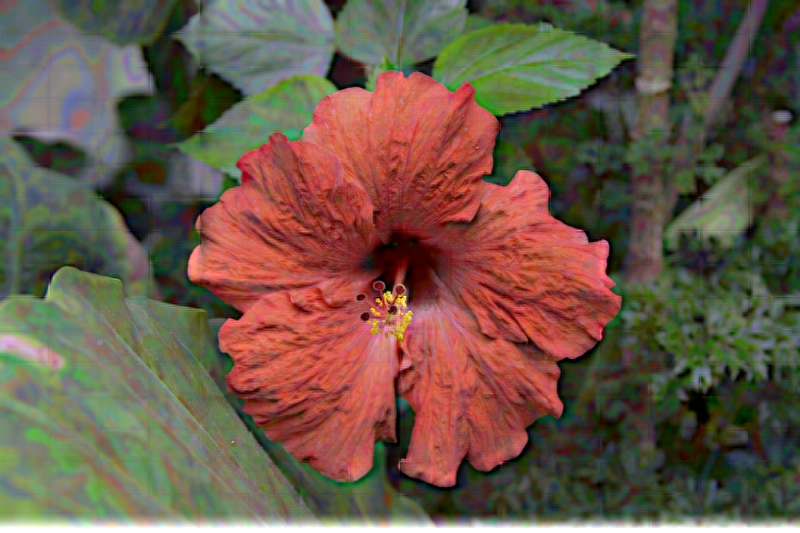
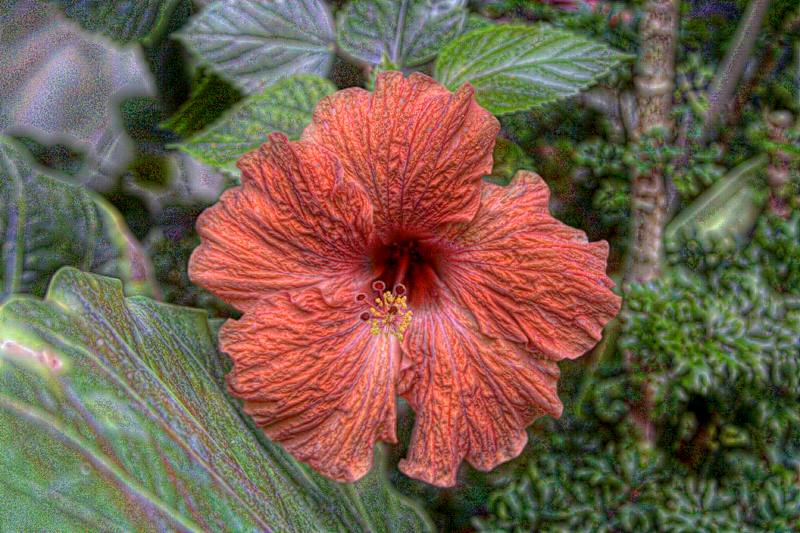
Implemented Local laplacian filtering(now correct)

diff --git a/src/retouch/LaplacianFiltering/LocalLaplacianFilter.cpp b/src/retouch/LaplacianFiltering/LocalLaplacianFilter.cpp
@@ -1,3 +1,4 @@
+#include <iostream>
 #include "LocalLaplacianFilter.h"
 #include "../Pyramid/LaplacianPyramid.h"
 #include "RemapFunction.h"
@@ -8,77 +9,50 @@ namespace retouch
     Image LocalLaplacianFilter::apply(const Image &image, const double &alpha,
                                                           const double &beta, const double &sigma) const
     {
-        GaussianPyramid gaussian_pyramid(image);
-        const size_t KGaussian_pyramid_size = gaussian_pyramid.getLayers().size();
-        const size_t KGaussian_laplacian_difference = 3;
-        const size_t KLaplacian_pyramid_size = KGaussian_pyramid_size - KGaussian_laplacian_difference;
-
+        const size_t KPypamid_size = 5;
+        GaussianPyramid gaussian_pyramid(image, KPypamid_size);
         LaplacianPyramid output_pyramid(image.getWidth(), image.getHeight(),
-                image.getChannelsCount(), KLaplacian_pyramid_size);
-
-        output_pyramid.setLayer(KLaplacian_pyramid_size - 1, gaussian_pyramid[KLaplacian_pyramid_size - 1]);
+                image.getChannelsCount(), KPypamid_size);
+        output_pyramid.setLayer(KPypamid_size - 1, gaussian_pyramid[KPypamid_size - 1]);
 
         RemapFunction remap_function(alpha, beta, sigma);
 
-        const size_t KSubimage_min_width = gaussian_pyramid[KLaplacian_pyramid_size - 2].getWidth() / 2;
-        const size_t KSubimage_min_height = gaussian_pyramid[KLaplacian_pyramid_size - 2].getHeight() / 2;
-
-        for(int layer_number = 0; layer_number < KLaplacian_pyramid_size - 1; layer_number++)
+        for(int layer_number = 0; layer_number < KPypamid_size - 1; layer_number++)
         {
-            const size_t KSubimages_on_axis = std::pow(2, layer_number + 1);
-            const size_t KOutput_layer_number = KLaplacian_pyramid_size - layer_number - 2;
-            Image gaussian_current_layer = gaussian_pyramid.expandToLayer(KOutput_layer_number, 0);
-            if(layer_number == 0)
-            {
-                Image cur = remap_function.remap(gaussian_pyramid[0], gaussian_current_layer);
-                ImageSaver saver;
-                saver.savePNG(cur, "../images/output_images/cur.png");
-            }
+            const size_t KGaussian_width = gaussian_pyramid[layer_number].getWidth();
+            const size_t KGaussian_height = gaussian_pyramid[layer_number].getHeight();
 
-            std::unordered_map subimages = divideIntoSubimages(image, KSubimages_on_axis);
-            std::unordered_map gaussian_subimages = divideIntoSubimages(gaussian_current_layer, KSubimages_on_axis);
+            const int KSubimage_size = 3 * ((pow(2, layer_number + 2)) - 1);
+            const int KSubimage_radius = KSubimage_size / 2;
 
-            size_t overall_width = 0;
-            for(int x = 0; x < KSubimages_on_axis; x++)
+            for(int y = 0; y < KGaussian_height; y++)
             {
-                size_t overall_height = 0;
-                int current_width;
-                for(int y = 0; y < KSubimages_on_axis; y++)
+                int y_in_full_resolution = y * pow(2,  layer_number);
+                int y_top_bound = std::max(y_in_full_resolution - KSubimage_radius, 0);
+                int y_bottom_bound = std::min<int>(y_in_full_resolution + KSubimage_radius, image.getHeight());
+                //if(y == KGaussian_height - 1) y_bottom_bound = image.getHeight();
+                for(int x = 0; x < KGaussian_width; x++)
                 {
-                     assert(subimages.find({x, y}) != subimages.end() &&
-                     gaussian_subimages.find({x, y}) != gaussian_subimages.end());
+                    std::cout << layer_number << " " << x << " " << y << "\n";
+                    int x_in_full_resolution = x * pow(2, layer_number);
 
-                    Image locally_good_image = remap_function.remap(subimages.find({x, y})->second, gaussian_subimages.find({x, y})->second);
-                    LaplacianPyramid temp_laplacian(locally_good_image);
+                    glm::ivec2 subimage_start = {std::max(x_in_full_resolution - KSubimage_radius, 0), y_top_bound};
+                    glm::ivec2 subimage_end = {std::min<int>(x_in_full_resolution + KSubimage_radius, image.getWidth()), y_bottom_bound};
 
-                    glm::vec2 start = {x * KSubimage_min_width, y * KSubimage_min_height};
-                    glm::vec2 end = {x * KSubimage_min_width + KSubimage_min_width - 1,
-                                     y * KSubimage_min_height + KSubimage_min_height - 1};
+                    Image remapped_subimage = remap_function.remap(image, subimage_start,
+                            subimage_end, gaussian_pyramid[layer_number].getPixel(x, y));
 
-//                    if(end.y >= output_pyramid[KOutput_layer_number].getHeight())
-//                        end.y = output_pyramid[KOutput_layer_number].getHeight() - 1;
-//                    if(end.x >= output_pyramid[KOutput_layer_number].getWidth())
-//                        end.x = output_pyramid[KOutput_layer_number].getWidth() - 1;
+                    LaplacianPyramid temp_laplacian(remapped_subimage);
 
+                    int new_x = (x_in_full_resolution - subimage_start.x) / pow(2, layer_number);
+                    int new_y = (y_in_full_resolution - subimage_start.y) / pow(2, layer_number);
+                    Pixel new_pixel = temp_laplacian[layer_number].getPixel(new_x, new_y);
+                    output_pyramid.setLayerPixel(layer_number, x, y, new_pixel);
 
-                    if(start.x < end.x && start.y < end.y)
-                    {
-                        output_pyramid.setLayerSubImage(KOutput_layer_number,
-                                                        temp_laplacian[temp_laplacian.getLayers().size() - 4], start, end);
-
-                    }
-                    current_width = temp_laplacian[temp_laplacian.getLayers().size() - 4].getWidth() - 1;
                 }
-                overall_width += current_width;
             }
-
-        }
-        for(int i = 0; i < output_pyramid.getLayers().size(); i++)
-        {
             ImageSaver saver;
-            saver.savePNG(output_pyramid[i],
-                              "../images/output_images/layer_" + std::to_string(i) + ".png");
-
+            saver.savePNG(output_pyramid[layer_number], "../images/output_images/layer_" + std::to_string(layer_number) + ".png");
 
         }
         return output_pyramid.reconstructImage();

diff --git a/src/retouch/Pyramid/GaussianPyramid.cpp b/src/retouch/Pyramid/GaussianPyramid.cpp
@@ -2,12 +2,18 @@
 
 #include "GaussianPyramid.h"
 #include "../Image/ImageSaver.h"
-
+#include "../Others/Exceptions.h"
 namespace retouch
 {
     GaussianPyramid::GaussianPyramid(const Image &image) : m_layers{image}
     {
         build();
+    }
+
+    GaussianPyramid::GaussianPyramid(const Image &image, size_t num_of_layers):
+    m_layers{image}
+    {
+        build(num_of_layers);
     }
 
     GaussianPyramid::GaussianPyramid(Image&& first_layer):
@@ -16,11 +22,32 @@ namespace retouch
         build();
     }
 
+    GaussianPyramid::GaussianPyramid(Image&& first_layer, size_t num_of_layers):
+            m_layers{first_layer}
+    {
+        build(num_of_layers);
+    }
+
 
     void GaussianPyramid::build()
     {
         while((m_layers.back().getHeight() + 1) / 2 > KMin_image_resolution &&
                 (m_layers.back().getWidth() + 1) / 2 > KMin_image_resolution)
+        {
+            m_layers.push_back(reduce(m_layers.size() - 1));
+        }
+    }
+
+    void GaussianPyramid::build(int num_of_layers)
+    {
+        if(m_layers[0].getHeight() < KMin_image_resolution * pow(2, num_of_layers) ||
+        m_layers[0].getWidth() < KMin_image_resolution * pow(2, num_of_layers))
+        {
+            std::string message = "Image size must be at least" +
+                    std::to_string(KMin_image_resolution * pow(2, num_of_layers)) + "pixels height, width";
+            throw ImageSizeTooSmallException(message);
+        }
+        while(--num_of_layers != 0)
         {
             m_layers.push_back(reduce(m_layers.size() - 1));
         }
@@ -145,5 +172,7 @@ namespace retouch
         }
         return expanded_image;
     }
+
+
 
 }

diff --git a/src/retouch/LaplacianFiltering/RemapFunction.cpp b/src/retouch/LaplacianFiltering/RemapFunction.cpp
@@ -40,15 +40,15 @@ namespace retouch
         }
     }
 
-    Image RemapFunction::remap(const Image& input_image, const Image& gaussian_layer) const
+    Image RemapFunction::remap(const Image& input_image, glm::vec2 start, glm::vec2 end, const Pixel& gaussian_pixel) const
     {
-        Image remapped_image(input_image.getWidth(), input_image.getHeight());
-        for(int y = 0; y < input_image.getHeight(); y++)
+        Image remapped_image(end.x - start.x + 1, end.y - start.y + 1);
+        for(int y = start.y; y < end.y; y++)
         {
-            for(int x = 0; x < input_image.getWidth(); x++)
+            for(int x = start.x; x < end.x; x++)
             {
-                Pixel remapped_pixel = remapPixel(input_image.getPixel(x, y), gaussian_layer.getPixel(x, y));
-                remapped_image.setPixel(x, y, remapped_pixel);
+                Pixel remapped_pixel = remapPixel(input_image.getPixel(x, y), gaussian_pixel);
+                remapped_image.setPixel(x - start.x, y - start.y, remapped_pixel);
             }
         }
         return remapped_image;
@@ -65,7 +65,7 @@ namespace retouch
         {
             delta = glm::normalize(delta);
         }
-        else return pixel;
+
 
         if(delta_magnitude < m_sigma)
         {

diff --git a/src/retouch/Pyramid/GaussianPyramid.h b/src/retouch/Pyramid/GaussianPyramid.h
@@ -7,16 +7,22 @@ namespace retouch
 {
     class GaussianPyramid
     {
-        static constexpr size_t KMin_image_resolution{ 4 };
+        static constexpr size_t KMin_image_resolution{ 2 };
 
         std::vector<Image> m_layers;
 
         void build();
+
+        void build(int num_of_layers);
     public:
 
         GaussianPyramid(const Image& first_layer);
 
+        GaussianPyramid(const Image& first_layer, size_t num_of_layers);
+
         GaussianPyramid(Image&& first_layer);
+
+        GaussianPyramid(Image&& first_layer, size_t num_of_layers);
 
         const std::vector<Image>& getLayers() const { return m_layers; }
 

diff --git a/src/main.cpp b/src/main.cpp
@@ -9,9 +9,9 @@ int main()
     retouch::ImageLoader loader;
     retouch::ImageSaver saver;
     retouch::LocalLaplacianFilter filter;
-    const double KAlpha = 4;
+    const double KAlpha = 0.25;
     const double KBeta = 1;
-    const double KSigma = 0.8;
+    const double KSigma = 0.3;
     try
     {
         retouch::Image image(loader.loadPNG("../images/input_images/flower.png"));

diff --git a/src/retouch/Pyramid/LaplacianPyramid.h b/src/retouch/Pyramid/LaplacianPyramid.h
@@ -26,6 +26,8 @@ namespace retouch
 
         void setLayerSubImage(size_t layer, const Image& img, glm::ivec2 start,glm::ivec2 end);
 
+        void setLayerPixel(size_t layer, size_t x, size_t y, const Pixel& pixel);
+
         void setLayer(size_t layer, const Image& image);
 
         Image expand(const Image& image, size_t layer_to_correspond) const;

diff --git a/src/retouch/LaplacianFiltering/RemapFunction.h b/src/retouch/LaplacianFiltering/RemapFunction.h
@@ -28,7 +28,7 @@ namespace retouch
     public:
         RemapFunction(const double &alpha, const double &beta, const double &sigma);
 
-        Image remap(const Image& input_image, const Image& gaussian_layer) const;
+        Image remap(const Image& input_image, glm::vec2 start, glm::vec2 end, const Pixel& gaussian_pixel) const;
     };
 }
 

diff --git a/src/retouch/Others/Exceptions.h b/src/retouch/Others/Exceptions.h
@@ -1,0 +1,12 @@
+#ifndef LAPLACIAN_PYRAMID_EXCEPTIONS_H
+#define LAPLACIAN_PYRAMID_EXCEPTIONS_H
+#include <stdexcept>
+
+class ImageSizeTooSmallException : public std::runtime_error
+{
+public:
+    ImageSizeTooSmallException(std::string message) : std::runtime_error(message){}
+};
+
+
+#endif //LAPLACIAN_PYRAMID_EXCEPTIONS_H

diff --git a/src/retouch/Pyramid/LaplacianPyramid.cpp b/src/retouch/Pyramid/LaplacianPyramid.cpp
@@ -100,5 +100,11 @@ namespace retouch
         m_layers[layer] = image;
     }
 
+    void LaplacianPyramid::setLayerPixel(size_t layer, size_t x, size_t y, const Pixel& pixel)
+    {
+        assert(layer < m_layers.size());
+        m_layers[layer].setPixel(x, y, pixel);
+    }
+
 
 }
